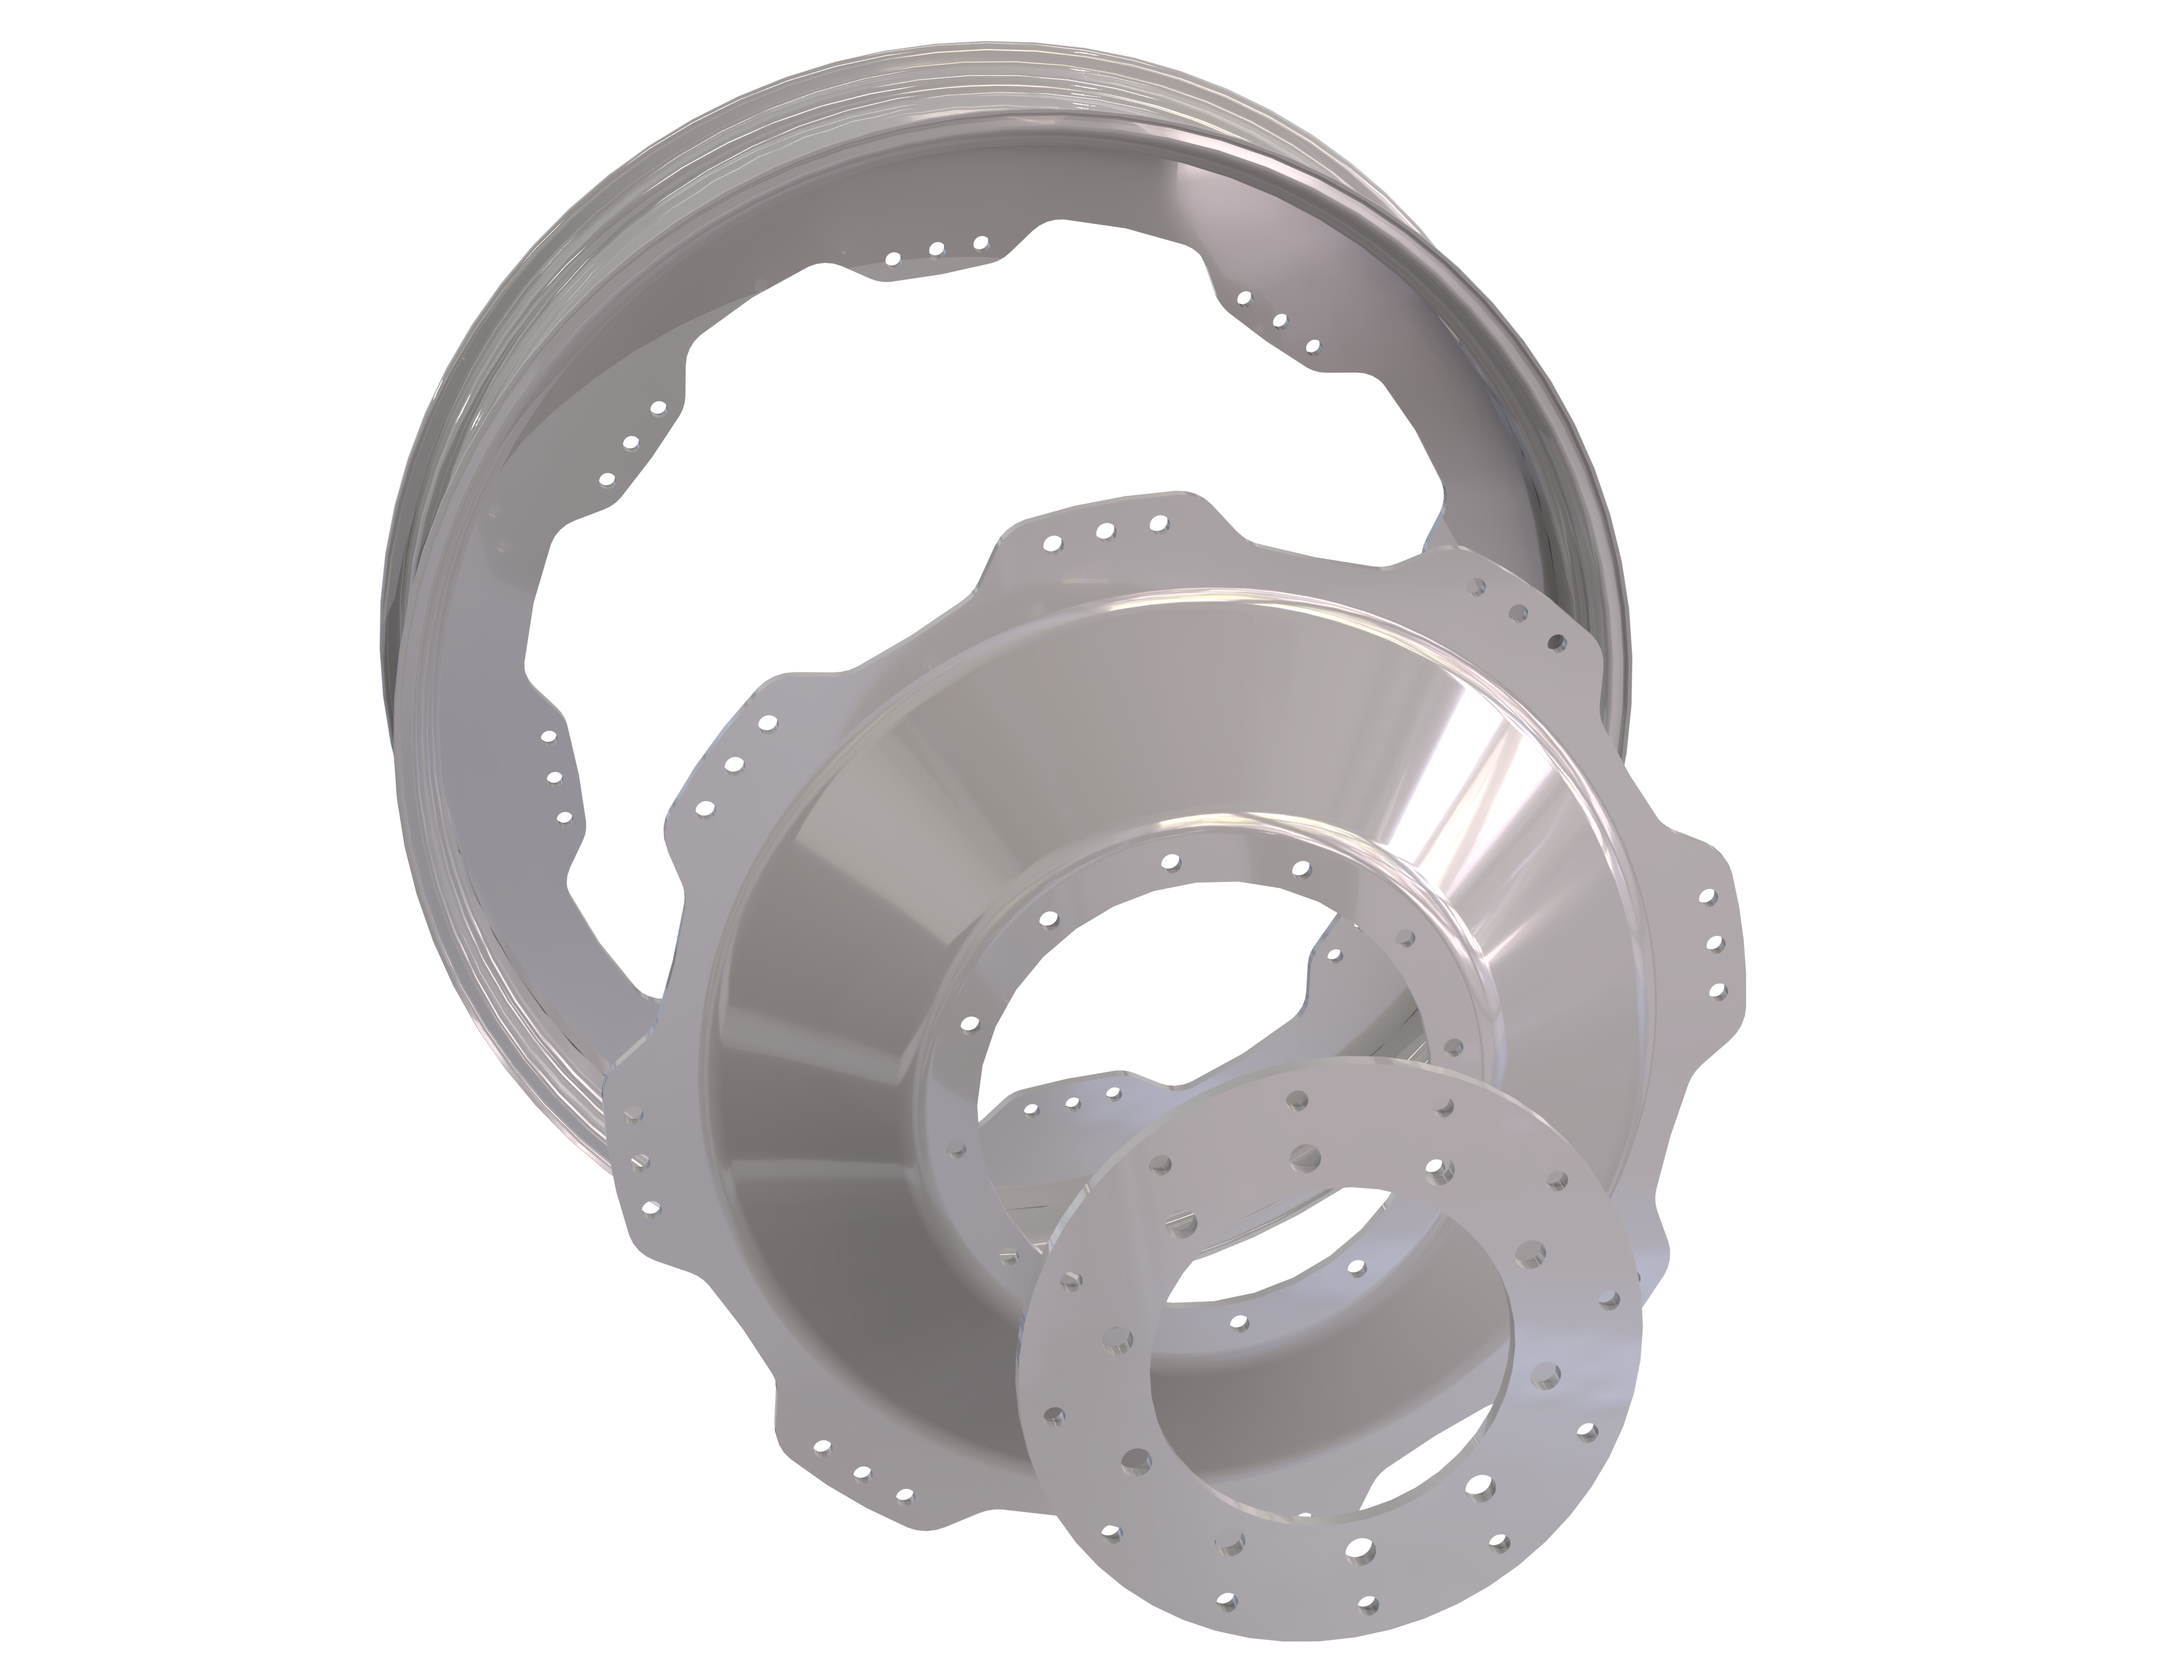
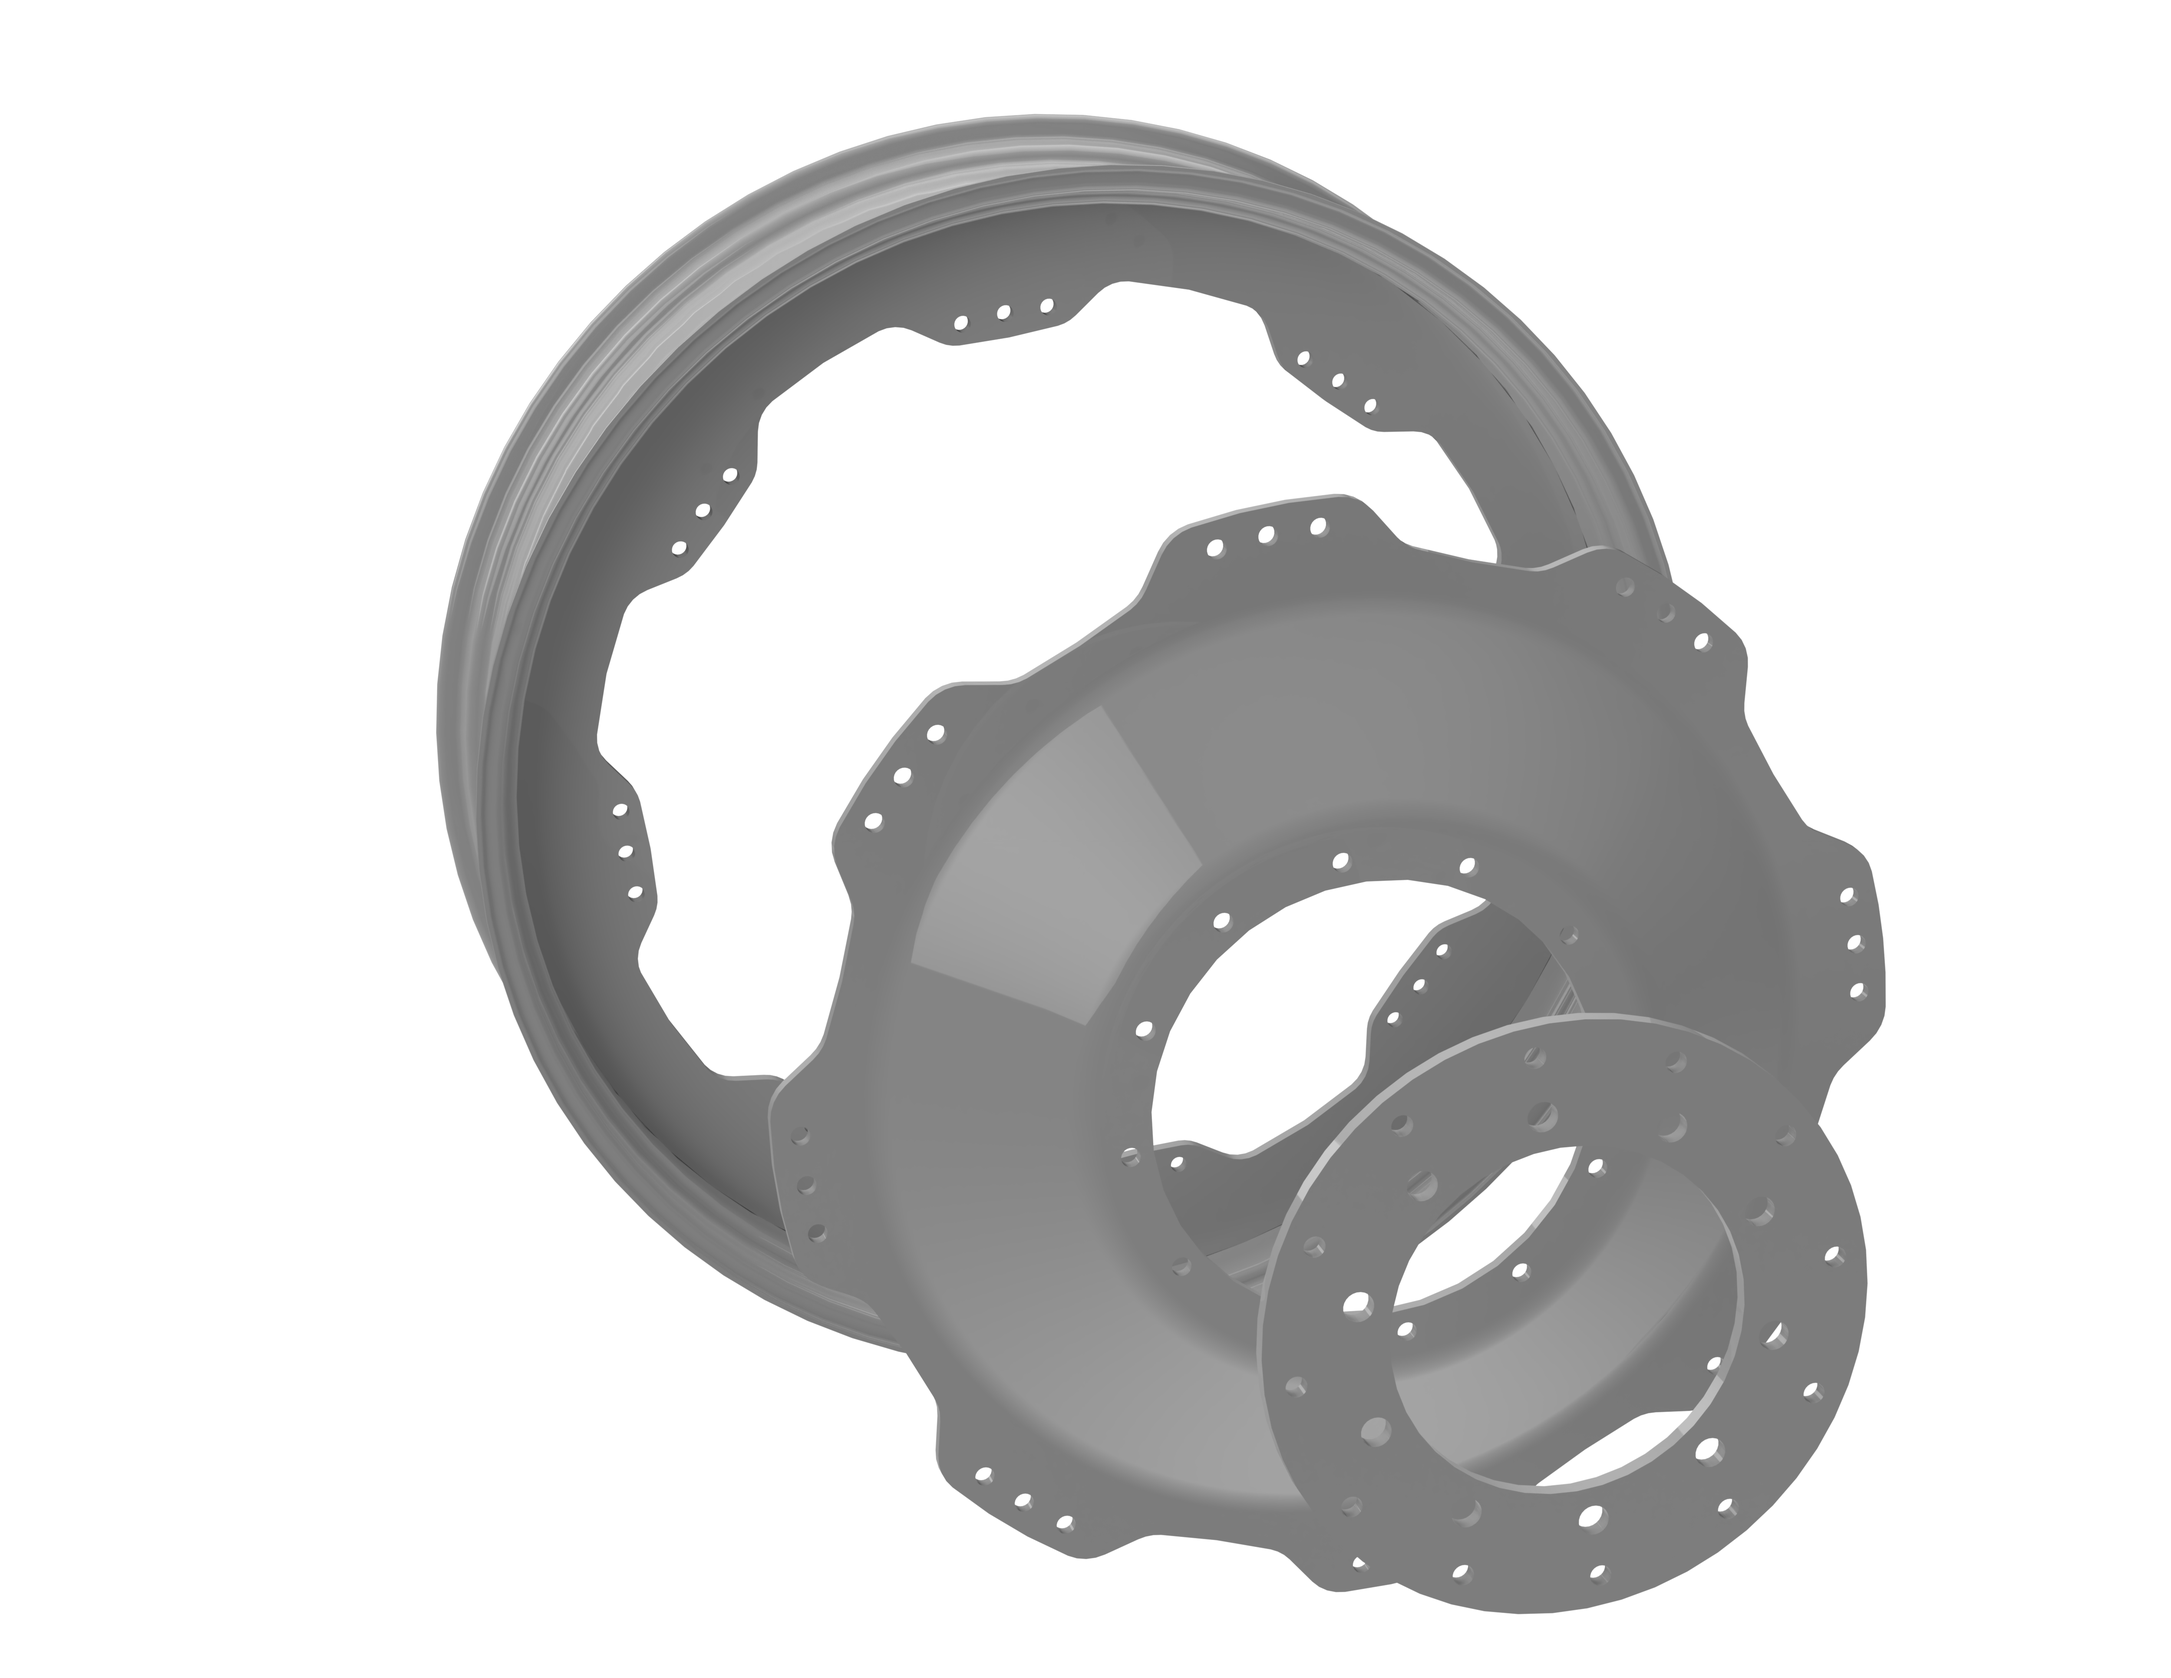
feat: complete product imagery

diff --git a/accueil.html b/accueil.html
@@ -61,7 +61,7 @@
                     <h2 id="home-catalogues-title" class="home-section__title">Catalogues techniques</h2>
                     <div class="home-primary-grid">
                         <button type="button" data-protected-route="jantes.html" class="nav-card">
-                            <span class="nav-card__icon nav-card__icon--image" aria-hidden="true"><img src="./assets/home-icons/jantes.png" alt="" loading="lazy"></span>
+                            <span class="nav-card__icon nav-card__icon--image" aria-hidden="true"><img src="./assets/product-images/peinture.png" alt="Jantes" loading="lazy"></span>
                             <span class="nav-card__footer">
                                 <span class="nav-card__title">JANTES</span>
                                 <span class="nav-card__arrow" aria-hidden="true">→</span>
@@ -69,7 +69,7 @@
                         </button>
 
                         <button type="button" data-protected-route="jumelages.html" class="nav-card">
-                            <span class="nav-card__icon nav-card__icon--image" aria-hidden="true"><img src="./assets/home-icons/jumelages.png" alt="" loading="lazy"></span>
+                            <span class="nav-card__icon nav-card__icon--image" aria-hidden="true"><img src="./assets/product-images/evo.png" alt="Jumelages" loading="lazy"></span>
                             <span class="nav-card__footer">
                                 <span class="nav-card__title">JUMELAGES</span>
                                 <span class="nav-card__arrow" aria-hidden="true">→</span>
@@ -77,7 +77,7 @@
                         </button>
 
                         <button type="button" data-protected-route="roues-etroites.html" class="nav-card">
-                            <span class="nav-card__icon nav-card__icon--image nav-card__product-media"><img src="./assets/product-images/ar-elite.png" alt="Roues étroites" loading="lazy"></span>
+                            <span class="nav-card__icon nav-card__icon--image nav-card__product-media"><img src="./assets/product-images/ar-eco.png" alt="Roues étroites" loading="lazy"></span>
                             <span class="nav-card__footer">
                                 <span class="nav-card__title">ROUES ETROITES</span>
                                 <span class="nav-card__arrow" aria-hidden="true">→</span>
@@ -90,7 +90,7 @@
                         </button>
 
                         <button type="button" data-protected-route="reparations-modifications.html" class="nav-card">
-                            <span class="nav-card__icon nav-card__icon--image nav-card__product-media"><img src="./assets/product-images/dv2.png" alt="Réparations et modifications" loading="lazy"></span>
+                            <span class="nav-card__icon nav-card__icon--image nav-card__product-media"><img src="./assets/product-images/deplacement-voile-2.png" alt="Réparations et modifications" loading="lazy"></span>
                             <span class="nav-card__footer"><span class="nav-card__title">RÉPARATIONS &amp; MODIFICATIONS</span><span class="nav-card__arrow" aria-hidden="true">→</span></span>
                         </button>
                     </div>

diff --git a/roues-etroites.html b/roues-etroites.html
@@ -46,16 +46,19 @@
                     <h2 id="narrow-wheel-ranges-title" class="catalog-info-section__title">Les trois gammes ERMAS</h2>
                     <div class="catalog-info-grid">
                         <article class="catalog-info-card catalog-info-card--eco">
+                            <div class="catalog-info-card__media"><img src="assets/product-images/av-eco.png" alt="Roue étroite gamme ECO" loading="lazy"></div>
                             <h3>Gamme ECO</h3>
                             <div class="catalog-info-card__position"><h4>Avant</h4><dl><div><dt>Couronne &amp; voile</dt><dd>Ép. 12 mm · acier standard</dd></div><div><dt>Perçage</dt><dd>8 trous · Ø700</dd></div><div><dt>Centre interchangeable</dt><dd>Ép. 15 mm</dd></div></dl></div>
                             <div class="catalog-info-card__position"><h4>Arrière</h4><dl><div><dt>Couronne &amp; voile</dt><dd>Ép. 12 mm · acier standard</dd></div><div><dt>Perçage</dt><dd>8 trous · Ø950</dd></div><div><dt>Centre interchangeable</dt><dd>Ép. 15 mm</dd></div></dl></div>
                         </article>
                         <article class="catalog-info-card catalog-info-card--pro">
+                            <div class="catalog-info-card__media"><img src="assets/product-images/av-premium.png" alt="Roue étroite gamme PRO" loading="lazy"></div>
                             <h3>Gamme PRO</h3>
                             <div class="catalog-info-card__position"><h4>Avant</h4><dl><div><dt>Couronne &amp; voile</dt><dd>Ép. 12 mm · acier renforcé</dd></div><div><dt>Perçage</dt><dd>8 × 2 trous · Ø700</dd></div><div><dt>Centre interchangeable</dt><dd>Ép. 15 mm</dd></div></dl></div>
                             <div class="catalog-info-card__position"><h4>Arrière</h4><dl><div><dt>Couronne &amp; voile</dt><dd>Couronne ép. 12 mm · voile ép. 12 mm · acier renforcé</dd></div><div><dt>Perçage</dt><dd>8 × 2 trous · Ø950</dd></div><div><dt>Centre interchangeable</dt><dd>Ép. 15 mm</dd></div></dl></div>
                         </article>
                         <article class="catalog-info-card catalog-info-card--elite">
+                            <div class="catalog-info-card__media"><img src="assets/product-images/ar-elite.png" alt="Roue étroite gamme ELITE" loading="lazy"></div>
                             <h3>Gamme ELITE</h3>
                             <div class="catalog-info-card__position"><h4>Avant</h4><p>Non disponible.</p></div>
                             <div class="catalog-info-card__position"><h4>Arrière</h4><dl><div><dt>Couronne &amp; voile</dt><dd>Ép. 15 mm · acier renforcé</dd></div><div><dt>Perçage</dt><dd>8 × 3 trous · Ø950</dd></div><div><dt>Centre interchangeable</dt><dd>Ép. 15 mm</dd></div></dl></div>

diff --git a/jumelages.html b/jumelages.html
@@ -27,12 +27,13 @@
 
                 <div class="app-choice-grid">
                     <button type="button" data-protected-route="jumelages-choix.html?type=EVO" class="app-choice-card app-choice-card--range">
+                        <span class="app-choice-card__media"><img src="assets/product-images/evo.png" alt="Jumelage EVO" loading="lazy"></span>
                         <span class="app-choice-card__title">EVO</span>
                         <span class="app-technical-meta">300 à 500 cv</span>
                     </button>
 
                     <button type="button" data-protected-route="jumelages-choix.html?type=360" class="app-choice-card app-choice-card--range">
-                        <span class="app-choice-card__media"><img src="assets/product-images/tendeur-360-dessous.png" alt="Tendeur 360" loading="lazy"></span>
+                        <span class="app-choice-card__media"><img src="assets/product-images/360.png" alt="Jumelage 360" loading="lazy"></span>
                         <span class="app-choice-card__title">360</span>
                         <span class="app-technical-meta">80 à 320 cv</span>
                     </button>
@@ -44,6 +45,7 @@
                     </button>
 
                     <button type="button" data-protected-route="jumelages-choix.html?type=TGD%2B" data-gamme="TGD+" class="app-choice-card app-choice-card--range">
+                        <span class="app-choice-card__media"><img src="assets/product-images/tgd-plus.png" alt="Jumelage TGD+" loading="lazy"></span>
                         <span class="app-choice-card__title">TGD+</span>
                         <span class="app-technical-meta">160 à 400 cv</span>
                     </button>

diff --git a/css/app-ermas.css b/css/app-ermas.css
@@ -2173,6 +2173,9 @@ html:has(dialog[open]) {
 .manipro-price-card h2 { margin:0 0 12px; color:var(--ermas-blue); font-size:.85rem; }
 .nav-card__icon--image img { width:100%; height:100%; object-fit:contain; }
 .nav-card__product-media { width:100%; height:116px; border:0; background:transparent; }
+@media (min-width: 621px) {
+    .home-primary-grid .nav-card__icon--image { width:100%; height:116px; border:0; background:transparent; }
+}
 .app-page-actions .app-back-button { display:inline-flex; align-items:center; justify-content:center; line-height:1; text-decoration:none; }
 .manipro-cta { justify-content:center; color:var(--ermas-blue); text-decoration:none; }
 .manipro-prices [data-net-price][hidden], .manipro-prices [data-net-price].hidden { display:none !important; }
@@ -2366,6 +2369,8 @@ html:has(dialog[open]) {
 .catalog-info-card--elite { --range-accent: var(--range-elite); border-color:rgba(241,180,60,.50); background:rgba(241,180,60,.14); }
 
 .catalog-info-card h3 { margin: 0 0 12px; color: var(--ermas-blue); font-size: 0.82rem; }
+.catalog-info-card__media { display:flex; width:100%; height:116px; align-items:center; justify-content:center; margin-bottom:14px; }
+.catalog-info-card__media img { display:block; width:100%; height:100%; object-fit:contain; }
 .catalog-info-card h4 { margin: 10px 0 3px; color: var(--app-text); font-size: 0.65rem; letter-spacing: 0.05em; text-transform: uppercase; }
 .catalog-info-card p { margin: 0; color: var(--app-text-muted); font-size: 0.72rem; line-height: 1.45; }
 .catalog-info-card--eco h3, .catalog-info-card--eco h4 {color:var(--range-eco)}

diff --git a/js/repairs-catalog.js b/js/repairs-catalog.js
@@ -4,9 +4,9 @@ const CSV_HEADERS = Object.freeze(['FAMILLE', 'PRESTATION', 'VARIANTE', 'TRANCHE
 
 export const REPAIR_FAMILIES = Object.freeze([
     { id: 'centres-percage', label: 'Centres & perçage', description: 'Réfections de centre et opérations de perçage.', image: 'assets/product-images/refection-centre-3.png', imageAlt: 'Centres et perçage' },
-    { id: 'renforcement', label: 'Renforcement', description: 'Renforts et semelles pour jantes agricoles.', image: 'assets/product-images/renfort-3.png', imageAlt: 'Renforcement' },
+    { id: 'renforcement', label: 'Renforcement', description: 'Renforts et semelles pour jantes agricoles.', image: 'assets/product-images/renfort-2.png', imageAlt: 'Renforcement' },
     { id: 'largeur', label: 'Modification de largeur', description: 'Élargissement ou rétrécissement de jante.', image: 'assets/product-images/elargisseur-3.png', imageAlt: 'Modification de largeur' },
-    { id: 'deplacement', label: 'Déplacement de voile', description: 'Déplacement de voile embouti soudé.', image: 'assets/product-images/dv3.png', imageAlt: 'Déplacement de voile' }
+    { id: 'deplacement', label: 'Déplacement de voile', description: 'Déplacement de voile embouti soudé.', image: 'assets/product-images/deplacement-voile-3.png', imageAlt: 'Déplacement de voile' }
 ]);
 
 const CENTER_DIAMETERS = Object.freeze([
